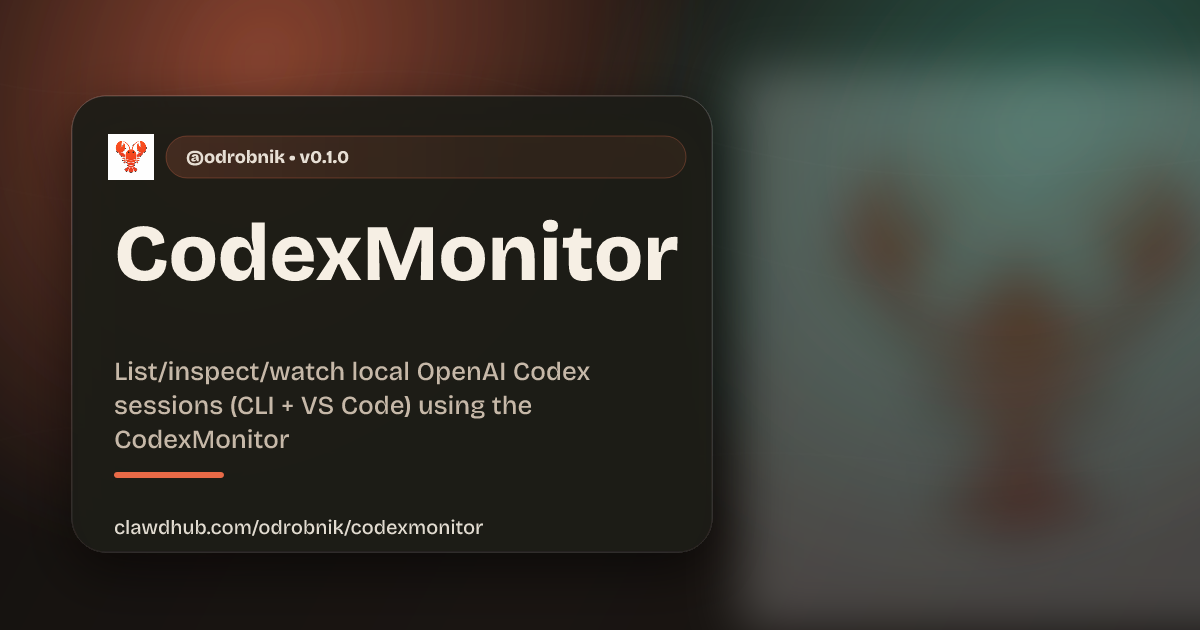
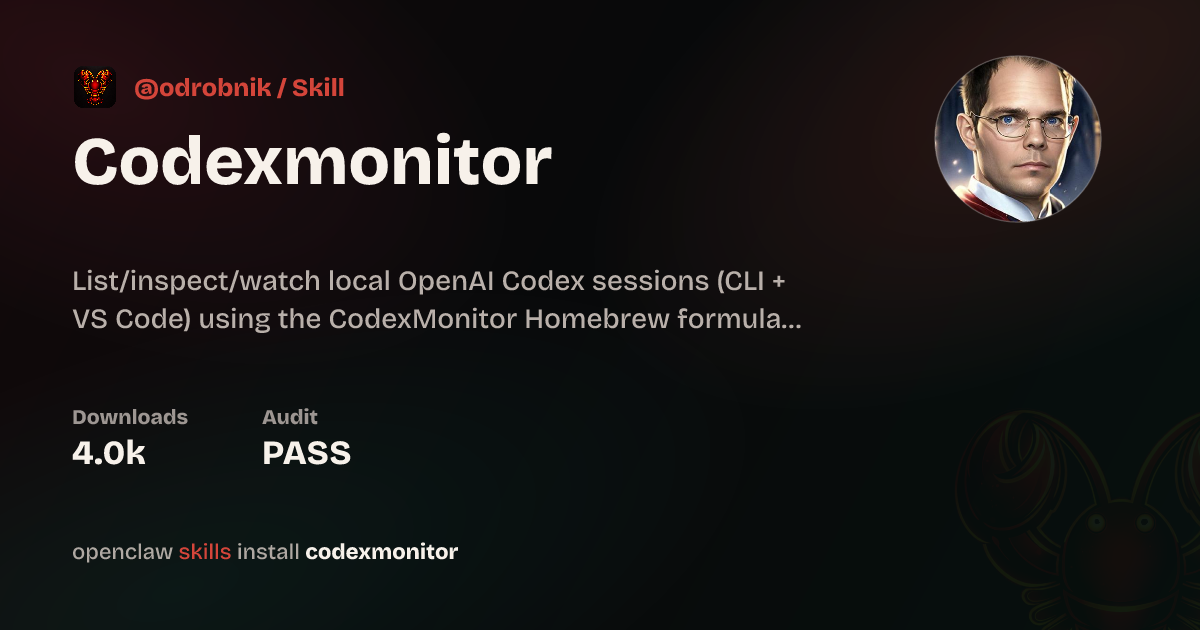
docs: refresh ClawHub showcase cards (#88734)

Pull request: docs: refresh ClawHub showcase cards
## Summary

- Refresh the showcase page with current ClawHub entries and preview images.
- Add the corresponding showcase image assets.
- Keep the change limited to docs showcase content/assets.

## Screenshots

Updated ClawHub showcase cards:

![Updated ClawHub showcase cards](https://placid-bridge-z4eg.here.now/droppie-2026-05-28T02-12-44Z.png)

## Verification

- `git merge-tree --write-tree origin/main HEAD`
- `git diff --check origin/main..HEAD`

Full docs build intentionally not run.

diff --git a/docs/start/showcase.md b/docs/start/showcase.md
@@ -101,6 +101,8 @@ Automated UK school meal booking via ParentPay. Uses mouse coordinates for relia
   **@julianengel** • `files` `r2` `presigned-urls`
 
 Upload to Cloudflare R2/S3 and generate secure presigned download links. Useful for remote OpenClaw instances.
+
+  <img src="/assets/showcase/r2-upload.png" alt="R2 upload skill on ClawHub" />
 </Card>
 
 <Card title="iOS app via Telegram" icon="mobile">
@@ -269,6 +271,8 @@ Vapi voice assistant to OpenClaw HTTP bridge. Near real-time phone calls with yo
   **@obviyus** • `transcription` `multilingual` `skill`
 
 Multi-lingual audio transcription via OpenRouter (Gemini, and more). Available on ClawHub.
+
+  <img src="/assets/showcase/openrouter-transcribe.png" alt="OpenRouter transcription skill on ClawHub" />
 </Card>
 
 </CardGroup>
@@ -289,6 +293,8 @@ OpenClaw gateway running on Home Assistant OS with SSH tunnel support and persis
   **ClawHub** • `homeassistant` `skill` `automation`
 
 Control and automate Home Assistant devices via natural language.
+
+  <img src="/assets/showcase/homeassistant.png" alt="Home Assistant skill on ClawHub" />
 </Card>
 
 <Card title="Nix packaging" icon="snowflake" href="https://github.com/openclaw/nix-openclaw">
@@ -301,6 +307,8 @@ Batteries-included nixified OpenClaw configuration for reproducible deployments.
   **ClawHub** • `calendar` `caldav` `skill`
 
 Calendar skill using khal and vdirsyncer. Self-hosted calendar integration.
+
+  <img src="/assets/showcase/caldav-calendar.png" alt="CalDAV calendar skill on ClawHub" />
 </Card>
 
 </CardGroup>